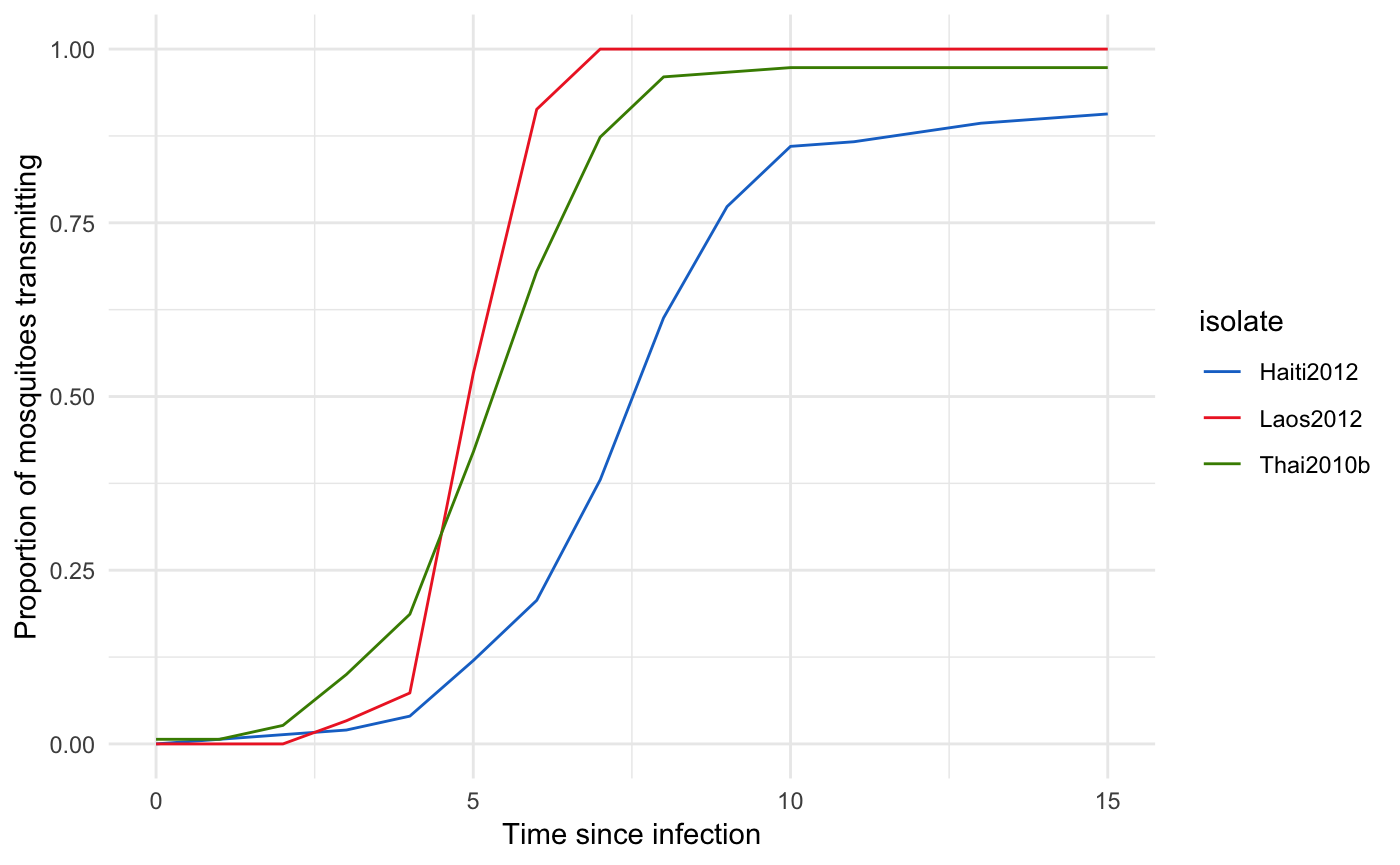
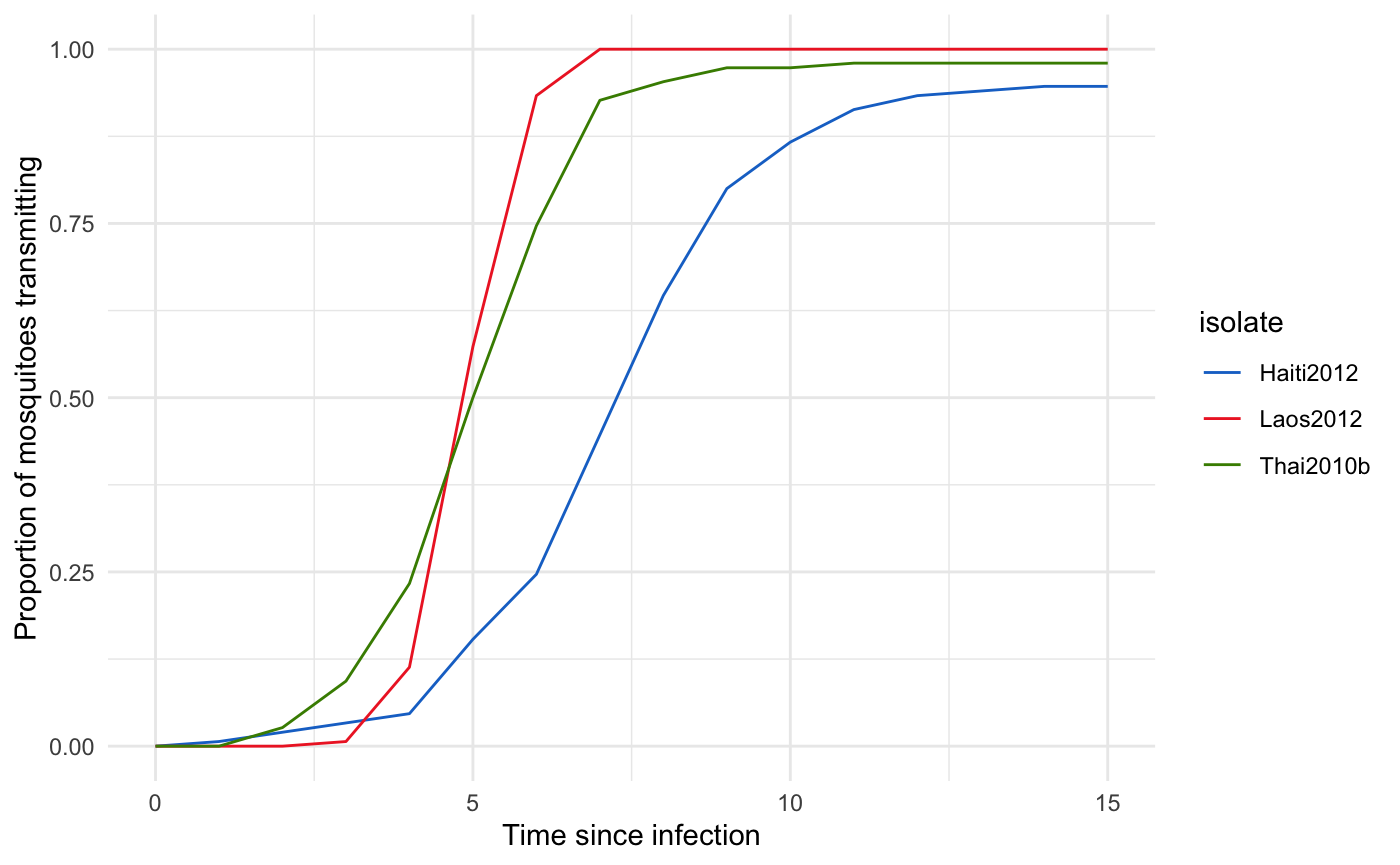
finish vector competence example (website)

diff --git a/docs/articles/examples/vector-competence.html b/docs/articles/examples/vector-competence.html
@@ -123,16 +123,19 @@
       <a href="../../articles/examples/dengue.html">Spread of dengue virus in a discrete space</a>
     </li>
     <li>
-      <a href="../../articles/examples/ebola.html">Spread of Ebola virus in a continuous space</a>
+      <a href="../../articles/examples/ebola.html">Spread of an Ebola-like virus in a continuous space</a>
     </li>
     <li>
       <a href="../../articles/examples/vector-competence.html">Epidemiological impact of mosquito vector competence variation</a>
     </li>
     <li>
-      <a href="../../articles/examples/viz_stat.html">`nosoi` output and visualization</a>
+      <a href="../../articles/examples/viz.html">Visualization tips</a>
     </li>
     <li>
       <a href="../../articles/none.html">Spread of a pathogen in a homogeneous population</a>
+    </li>
+    <li>
+      <a href="../../articles/output.html">`nosoi` output and summarisation</a>
     </li>
   </ul>
 </li>
@@ -159,7 +162,7 @@
       <h1>Epidemiological impact of mosquito vector competence variation</h1>
                         <h4 class="author">Sebastian Lequime</h4>
             
-            <h4 class="date">2019-05-13</h4>
+            <h4 class="date">2019-07-09</h4>
       
       <small class="dont-index">Source: <a href="https://github.com/slequime/nosoi/blob/master/vignettes/examples/vector-competence.Rmd"><code>vignettes/examples/vector-competence.Rmd</code></a></small>
       <div class="hidden name"><code>vector-competence.Rmd</code></div>
@@ -401,46 +404,15 @@
 <a class="sourceLine" id="cb8-95" data-line-number="95">                        </a>
 <a class="sourceLine" id="cb8-96" data-line-number="96">                        <span class="dt">print.progress=</span><span class="ot">FALSE</span>)</a></code></pre></div>
 </div>
-<div id="analyzing-the-results" class="section level1">
+<div id="analyzing-the-results-and-conclusions" class="section level1">
 <h1 class="hasAnchor">
-<a href="#analyzing-the-results" class="anchor"></a>Analyzing the results</h1>
-<div class="sourceCode" id="cb9"><pre class="sourceCode r"><code class="sourceCode r"><a class="sourceLine" id="cb9-1" data-line-number="1"><span class="kw"><a href="https://www.rdocumentation.org/packages/base/topics/load">load</a></span>(<span class="st">"/Users/slequime/Dropbox/C-Leuven Projects/Nosoi/Nosoi-Rpackage/runFontaine2/results.Haiti.RData"</span>)</a>
-<a class="sourceLine" id="cb9-2" data-line-number="2"><span class="kw"><a href="https://www.rdocumentation.org/packages/base/topics/load">load</a></span>(<span class="st">"/Users/slequime/Dropbox/C-Leuven Projects/Nosoi/Nosoi-Rpackage/runFontaine2/results.Thai2.RData"</span>)</a>
-<a class="sourceLine" id="cb9-3" data-line-number="3"><span class="kw"><a href="https://www.rdocumentation.org/packages/base/topics/load">load</a></span>(<span class="st">"/Users/slequime/Dropbox/C-Leuven Projects/Nosoi/Nosoi-Rpackage/runFontaine2/results.Laos.RData"</span>)</a>
-<a class="sourceLine" id="cb9-4" data-line-number="4"></a>
-<a class="sourceLine" id="cb9-5" data-line-number="5"></a>
-<a class="sourceLine" id="cb9-6" data-line-number="6">results =<span class="ot">NULL</span></a>
-<a class="sourceLine" id="cb9-7" data-line-number="7"><span class="cf">for</span> (rep <span class="cf">in</span> <span class="dv">1</span><span class="op">:</span><span class="dv">100</span>){</a>
-<a class="sourceLine" id="cb9-8" data-line-number="8">  temp1=<span class="kw"><a href="https://www.rdocumentation.org/packages/base/topics/data.frame">data.frame</a></span>(<span class="dt">N=</span>results.list.Haiti[[rep]]<span class="op">$</span>host.info.A<span class="op">$</span>N.infected, <span class="dt">rep=</span>rep, <span class="dt">isolate=</span><span class="st">"Haiti2012"</span>)</a>
-<a class="sourceLine" id="cb9-9" data-line-number="9">  temp2=<span class="kw"><a href="https://www.rdocumentation.org/packages/base/topics/data.frame">data.frame</a></span>(<span class="dt">N=</span>results.list.Thai[[rep]]<span class="op">$</span>host.info.A<span class="op">$</span>N.infected, <span class="dt">rep=</span>rep, <span class="dt">isolate=</span><span class="st">"Thai2010b"</span>)</a>
-<a class="sourceLine" id="cb9-10" data-line-number="10">  temp3=<span class="kw"><a href="https://www.rdocumentation.org/packages/base/topics/data.frame">data.frame</a></span>(<span class="dt">N=</span>results.list.Laos[[rep]]<span class="op">$</span>host.info.A<span class="op">$</span>N.infected, <span class="dt">rep=</span>rep, <span class="dt">isolate=</span><span class="st">"Laos2012"</span>)</a>
-<a class="sourceLine" id="cb9-11" data-line-number="11"></a>
-<a class="sourceLine" id="cb9-12" data-line-number="12">  results =<span class="st"> </span><span class="kw"><a href="https://www.rdocumentation.org/packages/base/topics/cbind">rbind</a></span>(results, temp1,temp2,temp3)</a>
-<a class="sourceLine" id="cb9-13" data-line-number="13">}</a>
-<a class="sourceLine" id="cb9-14" data-line-number="14"></a>
-<a class="sourceLine" id="cb9-15" data-line-number="15"></a>
-<a class="sourceLine" id="cb9-16" data-line-number="16">results2 =<span class="st"> </span>results <span class="op">%&gt;%</span><span class="st"> </span><span class="kw">group_by</span>(isolate) <span class="op">%&gt;%</span><span class="st"> </span><span class="kw">mutate</span>(<span class="dt">type=</span><span class="kw"><a href="https://www.rdocumentation.org/packages/base/topics/ifelse">ifelse</a></span>(N <span class="op">&gt;</span><span class="st"> </span><span class="dv">100</span>, <span class="st">"BIG"</span>,</a>
-<a class="sourceLine" id="cb9-17" data-line-number="17">                                                                 <span class="kw"><a href="https://www.rdocumentation.org/packages/base/topics/ifelse">ifelse</a></span>(N <span class="op">==</span><span class="st"> </span><span class="dv">1</span>, <span class="st">"FAIL"</span>,</a>
-<a class="sourceLine" id="cb9-18" data-line-number="18">                                                                        <span class="st">"SMALL"</span>))) <span class="op">%&gt;%</span><span class="st"> </span><span class="kw">group_by</span>(type, isolate) <span class="op">%&gt;%</span><span class="st"> </span><span class="kw">summarise</span>(<span class="dt">N=</span><span class="kw"><a href="https://www.rdocumentation.org/packages/base/topics/length">length</a></span>(type))</a>
-<a class="sourceLine" id="cb9-19" data-line-number="19"></a>
-<a class="sourceLine" id="cb9-20" data-line-number="20">results2<span class="op">$</span>type &lt;-<span class="st"> </span><span class="kw"><a href="https://www.rdocumentation.org/packages/base/topics/factor">factor</a></span>(results2<span class="op">$</span>type, <span class="dt">levels =</span> <span class="kw"><a href="https://www.rdocumentation.org/packages/base/topics/c">c</a></span>(<span class="st">"FAIL"</span>,<span class="st">"SMALL"</span>, <span class="st">"BIG"</span>))</a>
-<a class="sourceLine" id="cb9-21" data-line-number="21">results2<span class="op">$</span>isolate &lt;-<span class="st"> </span><span class="kw"><a href="https://www.rdocumentation.org/packages/base/topics/factor">factor</a></span>(results2<span class="op">$</span>isolate, <span class="dt">levels =</span> <span class="kw"><a href="https://www.rdocumentation.org/packages/base/topics/c">c</a></span>(<span class="st">"Laos2012"</span>,<span class="st">"Thai2010b"</span>, <span class="st">"Haiti2012"</span>))</a>
-<a class="sourceLine" id="cb9-22" data-line-number="22">plotF =<span class="st"> </span><span class="kw">ggplot</span>(results2, <span class="kw">aes</span>(<span class="dt">x =</span> <span class="kw"><a href="https://www.rdocumentation.org/packages/base/topics/factor">as.factor</a></span>(isolate) , <span class="dt">y =</span>N , <span class="dt">alpha=</span> <span class="kw"><a href="https://www.rdocumentation.org/packages/base/topics/factor">as.factor</a></span>(type),<span class="dt">fill=</span>isolate)) <span class="op">+</span></a>
-<a class="sourceLine" id="cb9-23" data-line-number="23"><span class="st">  </span><span class="kw">geom_histogram</span>(<span class="dt">stat=</span><span class="st">"identity"</span>) <span class="op">+</span><span class="st"> </span><span class="kw">coord_flip</span>() <span class="op">+</span><span class="st">  </span><span class="kw">scale_fill_brewer</span>(<span class="dt">palette=</span><span class="st">"Set2"</span>, <span class="dt">guide=</span><span class="ot">FALSE</span>) <span class="op">+</span></a>
-<a class="sourceLine" id="cb9-24" data-line-number="24"><span class="st">  </span><span class="kw">scale_alpha_discrete</span>(<span class="dt">name=</span><span class="st">"Number of secondary </span><span class="ch">\n</span><span class="st"> human infections"</span>,</a>
-<a class="sourceLine" id="cb9-25" data-line-number="25">                       <span class="dt">breaks=</span><span class="kw"><a href="https://www.rdocumentation.org/packages/base/topics/c">c</a></span>(<span class="st">"BIG"</span>, <span class="st">"SMALL"</span>, <span class="st">"FAIL"</span>),</a>
-<a class="sourceLine" id="cb9-26" data-line-number="26">                       <span class="dt">labels=</span><span class="kw"><a href="https://www.rdocumentation.org/packages/base/topics/c">c</a></span>(<span class="st">"≥ 100"</span>, <span class="st">"&lt; 100"</span>, <span class="st">"None"</span>))<span class="op">+</span></a>
-<a class="sourceLine" id="cb9-27" data-line-number="27"><span class="st">  </span><span class="kw">scale_x_discrete</span>(<span class="kw"><a href="https://www.rdocumentation.org/packages/base/topics/expression">expression</a></span>(<span class="st">'Isolate'</span>), <span class="dt">expand =</span> <span class="kw"><a href="https://www.rdocumentation.org/packages/base/topics/c">c</a></span>(<span class="fl">0.01</span>, <span class="dv">0</span>)) <span class="op">+</span></a>
-<a class="sourceLine" id="cb9-28" data-line-number="28"><span class="st">  </span><span class="kw">scale_y_continuous</span>(<span class="st">"Percentage of simulations"</span>) <span class="op">+</span></a>
-<a class="sourceLine" id="cb9-29" data-line-number="29"><span class="st">  </span><span class="kw">theme_minimal</span>(<span class="dt">base_size =</span> <span class="dv">12</span>) <span class="op">+</span><span class="st"> </span><span class="kw">theme</span>(<span class="dt">strip.text=</span><span class="kw">element_text</span>(<span class="dt">face=</span><span class="st">"bold"</span>), <span class="dt">axis.text.x=</span><span class="kw">element_text</span>(<span class="dt">angle=</span><span class="dv">45</span>, <span class="dt">vjust=</span><span class="fl">1.2</span>,<span class="dt">hjust=</span><span class="dv">1</span>), <span class="dt">axis.text.y =</span> <span class="kw">element_text</span>(<span class="dt">vjust =</span> <span class="dv">0</span>))</a></code></pre></div>
+<a href="#analyzing-the-results-and-conclusions" class="anchor"></a>Analyzing the results and conclusions</h1>
+<p>To analyse the results here, we classify each simulation into 3 categories based on the number of humans infected: over 100 infected, below 100 infected and no secondary case (just one infected). We then plot the results:</p>
 <pre><code>## Warning: Ignoring unknown parameters: binwidth, bins, pad</code></pre>
 <pre><code>## Warning: Using alpha for a discrete variable is not advised.</code></pre>
-<div class="sourceCode" id="cb12"><pre class="sourceCode r"><code class="sourceCode r"><a class="sourceLine" id="cb12-1" data-line-number="1">plotF</a></code></pre></div>
 <p><img src="vector-competence_files/figure-html/Output1-1.png" width="700"></p>
-</div>
-<div id="conclusions" class="section level1">
-<h1 class="hasAnchor">
-<a href="#conclusions" class="anchor"></a>Conclusions</h1>
+<p>As we can see, the isolate Haiti2012 yielded less “big outbreaks” (&gt; 100 humans infected) compared to the two other isolates, which is coherent with its slower within-host dynamics. This result is similar to the one obtained in the original paper which used an earlier version of <code>nosoi</code> in a closed population.</p>
+<p>With a set of simulated transmission chain and its metadata anchoring them in time, and sometime space, <code>nosoi</code> offers a perfect setting to explore how within-host dynamics can drastically influence a pathogen epidemiology. Changes in any of the parameters are easy to implement, including drastic changes on how a certain probability or number is computed, allowing for a maximum flexibility.</p>
 </div>
   </div>
 
@@ -457,8 +429,7 @@
       </ul>
 </li>
       <li><a href="#running-nosoi">Running <code>nosoi</code></a></li>
-      <li><a href="#analyzing-the-results">Analyzing the results</a></li>
-      <li><a href="#conclusions">Conclusions</a></li>
+      <li><a href="#analyzing-the-results-and-conclusions">Analyzing the results and conclusions</a></li>
       </ul>
 </div>
       </div>
